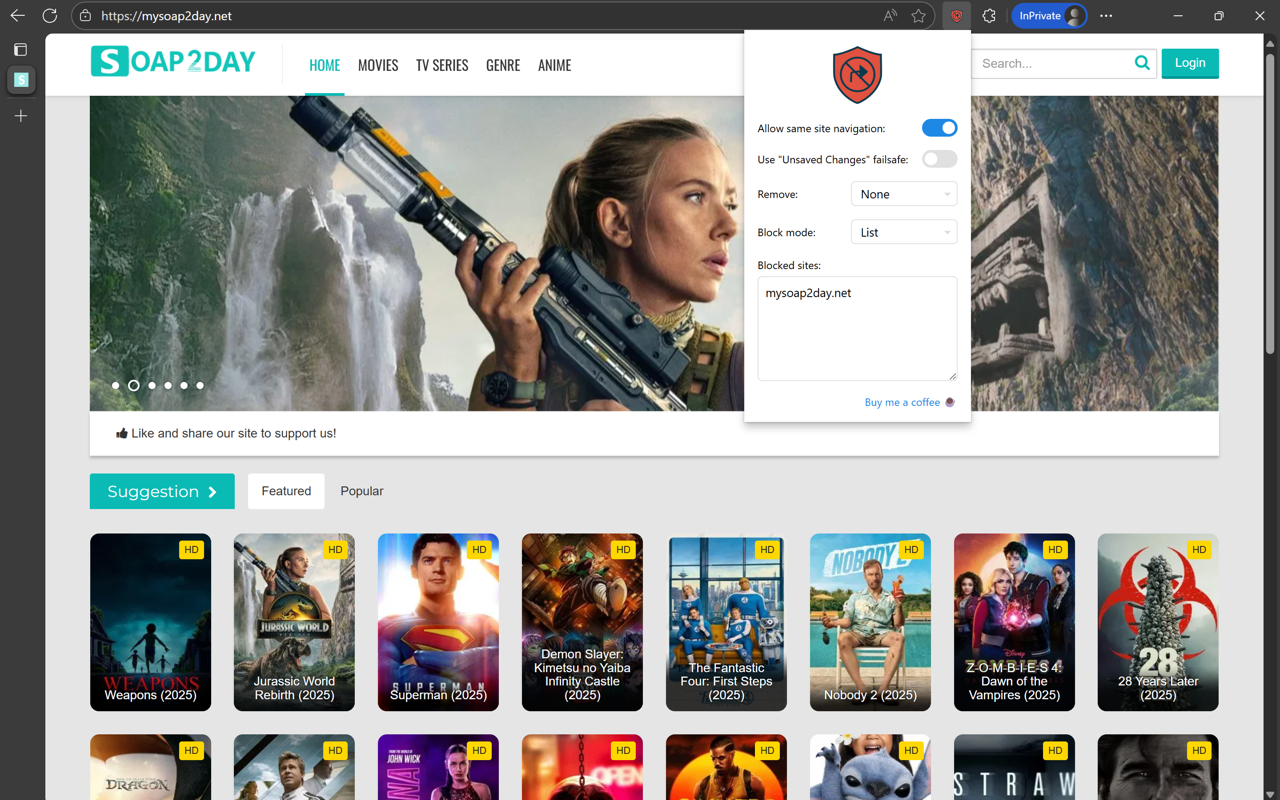
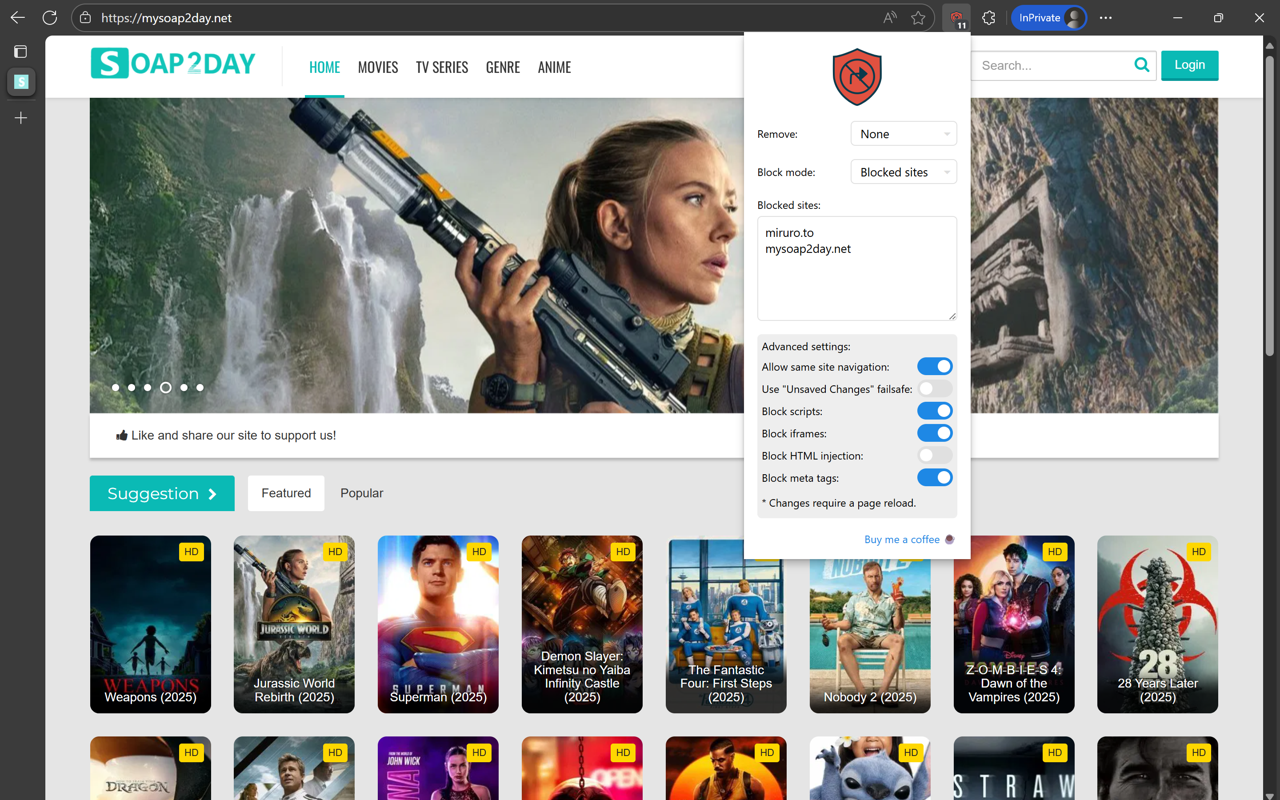
Added settings section to popup

diff --git a/src/popup/pages/settings/SettingsPage.ts b/src/popup/pages/settings/SettingsPage.ts
@@ -1,0 +1,52 @@
+import { SettingsRepository } from "../../../repositories/SettingsRepository";
+import { BlockHTMLInjectionSwitch } from "./components/BlockHTMLInjectionSwitch";
+import { BlockIFramesSwitch } from "./components/BlockIFramesSwitch";
+import { BlockMetaTagsSwitch } from "./components/BlockMetaTagsSwitch";
+import { BlockScriptsSwitch } from "./components/BlockScriptsSwitch";
+import { FailSafeSwitch } from "./components/FailSafeSwitch";
+import { InternalNavigationSwitch } from "./components/InternalNavigationSwitch";
+import "./settingspage.css";
+
+export class SettingsPage {
+  private readonly page: HTMLDivElement;
+  private readonly settingsRepository = new SettingsRepository();
+
+  constructor() {
+    this.page = this.build();
+  }
+
+  get element() {
+    return this.page;
+  }
+
+  private build() {
+    const title = document.createElement("span");
+    title.innerText = "Advanced settings:";
+
+    const allowInternalNavigation = new InternalNavigationSwitch(this.settingsRepository);
+    const useFailSafe = new FailSafeSwitch(this.settingsRepository);
+    const blockScripts = new BlockScriptsSwitch(this.settingsRepository);
+    const blockIframes = new BlockIFramesSwitch(this.settingsRepository);
+    const blockHtmlInjection = new BlockHTMLInjectionSwitch(this.settingsRepository);
+    const blockMetaTags = new BlockMetaTagsSwitch(this.settingsRepository);
+
+    const instructions = document.createElement("span");
+    instructions.innerText = "* Changes require a page reload.";
+
+    const page = document.createElement("div");
+    page.id = "settingspage";
+
+    page.append(
+      title,
+      allowInternalNavigation.element,
+      useFailSafe.element,
+      blockScripts.element,
+      blockIframes.element,
+      blockHtmlInjection.element,
+      blockMetaTags.element,
+      instructions,
+    );
+
+    return page;
+  }
+}

diff --git a/src/popup/pages/homepage/HomePage.ts b/src/popup/pages/homepage/HomePage.ts
@@ -1,11 +1,9 @@
 import { SettingsRepository } from "../../../repositories/SettingsRepository";
 import { Donate } from "../../components/donate/Donate";
 import { Logo } from "../../components/logo/Logo";
+import { SettingsPage } from "../settings/SettingsPage";
 import { BlockedSitesTextbox } from "./components/BlockedSitesTextbox";
 import { BlockModeDropdown } from "./components/BlockModeDropdown";
-import { BlockScriptsSwitch } from "./components/BlockScriptsSwitch";
-import { FailSafeSwitch } from "./components/FailSafeSwitch";
-import { InternalNavigationSwitch } from "./components/InternalNavigationSwitch";
 import { RemoverDropdown } from "./components/RemoverDropdown";
 import "./homepage.css";
 
@@ -23,25 +21,22 @@ export class HomePage {
 
   private build() {
     const logo = new Logo();
-    const allowInternalNavigation = new InternalNavigationSwitch(this.settingsRepository);
-    const useFailSafe = new FailSafeSwitch(this.settingsRepository);
-    const blockScripts = new BlockScriptsSwitch(this.settingsRepository);
     const remover = new RemoverDropdown(this.settingsRepository);
     const blockMode = new BlockModeDropdown(this.settingsRepository);
     const blockedSitesTextbox = new BlockedSitesTextbox(this.settingsRepository);
+    const settingsPage = new SettingsPage();
     const donate = new Donate();
+
 
     const page = document.createElement("div");
     page.id = "homepage";
 
     page.append(
       logo.element,
-      allowInternalNavigation.element,
-      useFailSafe.element,
-      blockScripts.element,
       remover.element,
       blockMode.element,
       blockedSitesTextbox.element,
+      settingsPage.element,
       donate.element,
     );
 

diff --git a/src/popup/pages/homepage/components/RemoverDropdown.ts b/src/popup/pages/homepage/components/RemoverDropdown.ts
@@ -1,7 +1,7 @@
 import type { SettingsData, SettingsRepository } from "../../../../repositories/SettingsRepository";
 import { Dropdown } from "../../../components/dropdowns/Dropdown";
 
-type RemoverDropdownData = "None" | "Safe" | "Aggressive";
+type RemoverDropdownData = "None" | "Safe" | "Last clicked";
 
 export class RemoverDropdown {
   private readonly dropdown: Dropdown<RemoverDropdownData>;
@@ -17,7 +17,7 @@ export class RemoverDropdown {
   }
 
   private build() {
-    const removerDropdown = new Dropdown<RemoverDropdownData>("remover", "Remove:", ["None", "Safe", "Aggressive"]);
+    const removerDropdown = new Dropdown<RemoverDropdownData>("remover", "Remove:", ["None", "Safe", "Last clicked"]);
 
     removerDropdown.changeEvent.addListener((option) => {
       const remover = this.transformDropdownOptionToStorageFormat(option);
@@ -34,7 +34,7 @@ export class RemoverDropdown {
 
   private transformDropdownOptionToStorageFormat(option: RemoverDropdownData): SettingsData["remover"] {
     switch (option) {
-      case "Aggressive":
+      case "Last clicked":
         return "aggressive";
 
       case "Safe":
@@ -48,7 +48,7 @@ export class RemoverDropdown {
   private transformStorageFormatToDropdownOption(option: SettingsData["remover"]): RemoverDropdownData {
     switch (option) {
       case "aggressive":
-        return "Aggressive";
+        return "Last clicked";
 
       case "safe":
         return "Safe";

diff --git a/src/popup/pages/homepage/components/BlockModeDropdown.ts b/src/popup/pages/homepage/components/BlockModeDropdown.ts
@@ -1,7 +1,7 @@
 import type { SettingsData, SettingsRepository } from "../../../../repositories/SettingsRepository";
 import { Dropdown } from "../../../components/dropdowns/Dropdown";
 
-type BlockModeDropdownData = "All" | "List" | "None";
+type BlockModeDropdownData = "All" | "Blocked sites" | "None";
 
 export class BlockModeDropdown {
   private readonly dropdown: Dropdown<BlockModeDropdownData>;
@@ -17,7 +17,7 @@ export class BlockModeDropdown {
   }
 
   private build() {
-    const blockModeDropdown = new Dropdown<BlockModeDropdownData>("blockmode", "Block mode:", ["All", "List", "None"]);
+    const blockModeDropdown = new Dropdown<BlockModeDropdownData>("blockmode", "Block mode:", ["All", "Blocked sites", "None"]);
 
     blockModeDropdown.changeEvent.addListener((option) => {
       const blockMode = this.transformDropdownOptionToStorageFormat(option);
@@ -37,7 +37,7 @@ export class BlockModeDropdown {
       case "All":
         return "all";
 
-      case "List":
+      case "Blocked sites":
         return "blacklist";
 
       default:
@@ -51,7 +51,7 @@ export class BlockModeDropdown {
         return "All";
 
       case "blacklist":
-        return "List";
+        return "Blocked sites";
 
       default:
         return "None";

diff --git a/src/popup/pages/settings/components/SettingsSwitch.ts b/src/popup/pages/settings/components/SettingsSwitch.ts
@@ -1,0 +1,36 @@
+import type { SettingsData, SettingsRepository } from "../../../../repositories/SettingsRepository";
+import { Switch } from "../../../components/switches/Switch";
+
+type BooleanKeys<T> = {
+  [K in keyof T]: T[K] extends boolean ? K : never;
+}[keyof T];
+
+export type BooleanSettingKey = BooleanKeys<SettingsData>;
+
+export abstract class SettingsSwitch {
+  protected readonly switch: Switch;
+
+  constructor(text: string, settingName: BooleanSettingKey, settingsRepository: SettingsRepository) {
+    this.switch = this.build(text, settingName, settingsRepository);
+  }
+
+  get element() {
+    return this.switch.element;
+  }
+
+  private build(text: string, settingName: BooleanSettingKey, settingsRepository: SettingsRepository) {
+    const swtich = new Switch(text, settingName);
+
+    swtich.changeEvent.addListener((checked) => {
+      const data: Partial<SettingsData> = {};
+      data[settingName] = checked;
+      settingsRepository.set(data);
+    });
+
+    settingsRepository.get().then((settings) => {
+      swtich.checked = settings[settingName];
+    });
+
+    return swtich;
+  }
+}

diff --git a/src/popup/components/switches/Switch.ts b/src/popup/components/switches/Switch.ts
@@ -6,13 +6,16 @@ export class Switch {
   protected readonly label: HTMLLabelElement;
   protected readonly checkbox: HTMLInputElement;
 
-  constructor(id: string, text: string) {
+  constructor(text: string, id?: string) {
     const label = document.createElement("label");
     label.classList.add("switch");
 
     const input = document.createElement("input");
     input.type = "checkbox";
-    input.id = id;
+    if (id) {
+      input.id = id;
+    }
+
     input.addEventListener("change", async () => {
       this.changeEvent.notify(this.checked);
     });

diff --git a/src/popup/pages/settings/components/InternalNavigationSwitch.ts b/src/popup/pages/settings/components/InternalNavigationSwitch.ts
@@ -15,7 +15,7 @@ export class InternalNavigationSwitch {
   }
 
   private build() {
-    const internalNavigationSwitch = new Switch("allowInternalNavigation", "Allow same site navigation:");
+    const internalNavigationSwitch = new Switch("Allow same site navigation:", "allowInternalNavigation");
 
     internalNavigationSwitch.changeEvent.addListener((checked) => {
       const linkValidatorType = checked ? "hostname" : "none";

diff --git a/src/popup/pages/settings/components/BlockHTMLInjectionSwitch.ts b/src/popup/pages/settings/components/BlockHTMLInjectionSwitch.ts
@@ -1,0 +1,12 @@
+import type { SettingsRepository } from "../../../../repositories/SettingsRepository";
+import { SettingsSwitch } from "./SettingsSwitch";
+
+export class BlockHTMLInjectionSwitch extends SettingsSwitch {
+  constructor(settingsRepository: SettingsRepository) {
+    super(
+      "Block HTML injection:",
+      "blockHTMLInjection",
+      settingsRepository,
+    );
+  }
+}

diff --git a/src/popup/pages/settings/components/FailSafeSwitch.ts b/src/popup/pages/settings/components/FailSafeSwitch.ts
@@ -1,0 +1,12 @@
+import type { SettingsRepository } from "../../../../repositories/SettingsRepository";
+import { SettingsSwitch } from "./SettingsSwitch";
+
+export class FailSafeSwitch extends SettingsSwitch {
+  constructor(settingsRepository: SettingsRepository) {
+    super(
+      "Use \"Unsaved Changes\" failsafe:",
+      "useFailSafe",
+      settingsRepository,
+    );
+  }
+}

diff --git a/src/popup/pages/settings/components/BlockMetaTagsSwitch.ts b/src/popup/pages/settings/components/BlockMetaTagsSwitch.ts
@@ -1,0 +1,12 @@
+import type { SettingsRepository } from "../../../../repositories/SettingsRepository";
+import { SettingsSwitch } from "./SettingsSwitch";
+
+export class BlockMetaTagsSwitch extends SettingsSwitch {
+  constructor(settingsRepository: SettingsRepository) {
+    super(
+      "Block meta tags:",
+      "blockMetaRefresh",
+      settingsRepository,
+    );
+  }
+}

diff --git a/src/popup/pages/settings/components/BlockIFramesSwitch.ts b/src/popup/pages/settings/components/BlockIFramesSwitch.ts
@@ -1,0 +1,12 @@
+import type { SettingsRepository } from "../../../../repositories/SettingsRepository";
+import { SettingsSwitch } from "./SettingsSwitch";
+
+export class BlockIFramesSwitch extends SettingsSwitch {
+  constructor(settingsRepository: SettingsRepository) {
+    super(
+      "Block iframes:",
+      "blockIFrames",
+      settingsRepository,
+    );
+  }
+}

diff --git a/src/popup/pages/settings/components/BlockScriptsSwitch.ts b/src/popup/pages/settings/components/BlockScriptsSwitch.ts
@@ -1,0 +1,12 @@
+import type { SettingsRepository } from "../../../../repositories/SettingsRepository";
+import { SettingsSwitch } from "./SettingsSwitch";
+
+export class BlockScriptsSwitch extends SettingsSwitch {
+  constructor(settingsRepository: SettingsRepository) {
+    super(
+      "Block scripts:",
+      "blockScripts",
+      settingsRepository,
+    );
+  }
+}
